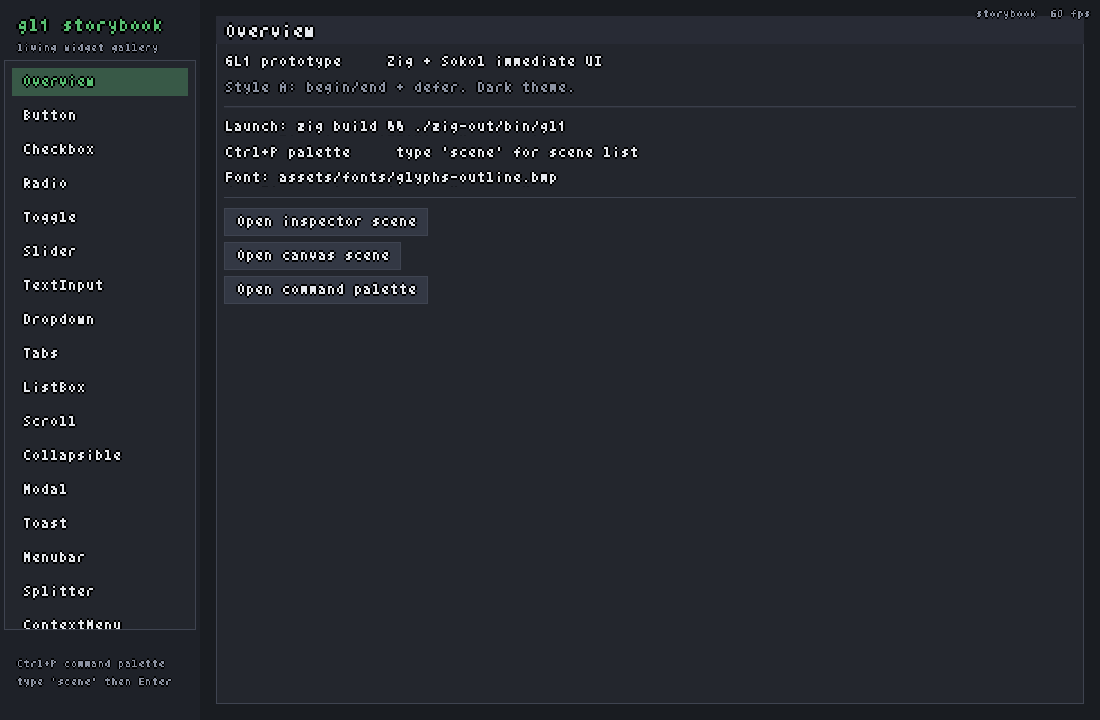
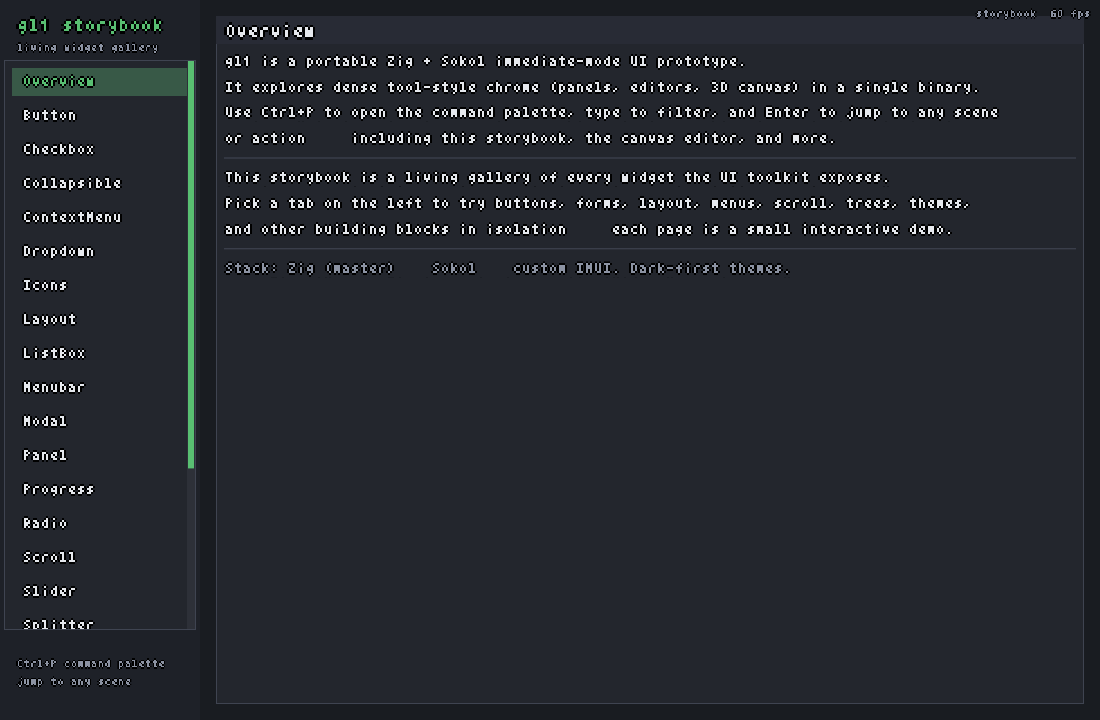
update readme

diff --git a/README.md b/README.md
@@ -1,55 +1,22 @@
 # gl1
 
-Portable **Zig + Sokol** graphics prototype with a custom **immediate-mode UI**
-(Style A: `begin` / `end` + `defer`). Built as a greenfield stack for tools,
-editors, and eventually TUI backends—without shipping Dear ImGui or Clay as the
-product UI.
-
-| | |
-|--|--|
-| Language | Zig **master** ([zvm](https://github.com/tristanisham/zvm)) |
-| Window / GPU | [sokol-zig](https://github.com/floooh/sokol-zig) (`sokol_app` + `sokol_gfx` + `sokol_gl`) |
-| UI | In-repo immediate mode (`src/ui/`) + `RenderCommand` list |
-| Font | Bitmap atlas (`assets/fonts/glyphs-outline.bmp`) |
-| Default scene | `storybook` |
-
-![gl1 storybook](docs/screenshots/storybook.png)
+Portable **Zig + Sokol** graphics prototype with a custom **immediate-mode UI**. Built as a greenfield stack for tools,
+editors, and eventually TUI backends—with little/no dependencies.
 
 ## Requirements
 
 - Zig **master** via [`zvm`](https://github.com/tristanisham/zvm)  
   (tested: `0.17.0-dev.1252+e4b325c19`)
+- [sokol-zig](https://github.com/floooh/sokol-zig) (`sokol_app` + `sokol_gfx` + `sokol_gl`) |
 - Linux with OpenGL + X11 (macOS / Windows via Sokol backends later)
+
+## Build & Run
 
 ```bash
 zvm use master
 zig build
-./zig-out/bin/gl1                    # default: storybook
-./zig-out/bin/gl1 --scene inspector
-./zig-out/bin/gl1 help
+./zig-out/bin/gl1 
 ```
-
-## Global hotkeys
-
-| Input | Action |
-|-------|--------|
-| **Ctrl+P** | Toggle command palette (filter with e.g. `scene`, arrows / Enter / click) |
-| **Esc** | Close palette/modal → clear text focus → quit app |
-| **Ctrl+C / X / V** | Copy / cut / paste in focused text fields |
-| **Ctrl+Z** / **Ctrl+Shift+Z** | Undo / redo in text fields |
-
-Scene switching is via the palette (type `scene`). Digits stay free for typing.
-
-### Command palette
-
-| Input | Action |
-|-------|--------|
-| **↑ / ↓** | Move selection (scroll keeps selection in view) |
-| **Mouse wheel** | Scroll list only (does not change selection) |
-| **Mouse move over row** | Select that row (only while the mouse is moving) |
-| **Enter** / click | Run command |
-| **Esc** | Close palette |
-
 ---
 
 ## Scenes overview
@@ -58,38 +25,21 @@ Favorite demos first:
 
 | Scene | CLI | Description |
 |-------|-----|-------------|
-| [`inspector`](#inspector) | `--scene inspector` | App chrome: menubar, split, tree, form, notes, console |
-| [`canvas`](#canvas) | `--scene canvas` | Blender-like 3D orbit viewport + entity cubes |
 | [`storybook`](#storybook) | `--scene storybook` | Living widget gallery (**default**) |
+| [`canvas`](#canvas) | `--scene canvas` | 3D orbit viewport + editor chrome (tree / inspector / console) |
+| [`panels`](#panels) | `--scene panels` | Desktop windows + dock (drag / resize / toggle) |
 | [`text`](#text) | `--scene text` | Bitmap font sample |
 | [`triangle`](#triangle) | `--scene triangle` | Hello triangle + mouse readout |
-| [`panels`](#panels) | `--scene panels` | Desktop windows + dock (drag / resize / toggle) |
 
 ---
 
 ## Scene gallery
 
-### inspector
-
-Composite “app shell”: menubar, left tree + filter, splitter, property form
-(Blender-style sliders), viewport preview, multi-line **Notes** textarea, console.
-
-![inspector](docs/screenshots/inspector.png)
-
-| Input | Action |
-|-------|--------|
-| Drag vertical splitter | Resize left/right panes |
-| Right-click entity list | Context menu |
-| Menubar items | File / edit actions, open palette |
-| **Notes** textarea | Full multi-line editor (see [Text editing](#text-editing-hotkeys)) |
-| Layer / HP sliders | Blender-style number sliders |
-
----
-
 ### canvas
 
 Mini Blender-like **3D** viewport: orbit camera, solid cubes as ECS-style
-entities, selection outlines, orientation compass, fly mode.
+entities, selection outlines, orientation compass, fly mode, plus floating
+**scene tree**, **inspector**, and **console** panels.
 
 ![canvas](docs/screenshots/canvas.png)
 
@@ -108,7 +58,8 @@ entities, selection outlines, orientation compass, fly mode.
 | **Ctrl+A** | Toggle select all / none |
 | **F** or **Numpad `.`** | Frame selection (center + zoom ~80%, 250 ms tween) |
 | **1** / **3** / **7** | Front / Right / Top view (numpad or top-row) |
-| Top-right RGB gizmo | World-axis orientation (always on) |
+| Top-right RGB gizmo | World-axis orientation (shifts left of expanded inspector) |
+| **Del** | Delete selection (when not typing in a field) |
 
 ---
 
@@ -188,56 +139,23 @@ Textarea: bottom-right **solid triangle** grip resizes the field (ghost preview 
 
 ---
 
-## Project layout
+## Global hotkeys
 
-```
-src/
-  main.zig              CLI entry
-  app.zig               sokol_app / gfx / gl shell
-  input.zig             normalized input + key repeat
-  anim.zig              Timer / Tween / Easing (Game9-inspired)
-  bmp.zig               BMP loader
-  font.zig              bitmap atlas font
-  draw.zig              RenderCommand list + sgl backend
-  ui/
-    ui.zig              immediate UI core + high-level widgets
-    theme.zig           dark theme tokens
-    text_edit.zig       shared text model (multi-caret, soft wrap, undo)
-    components/         modular widgets (slider, textArea, …)
-  scenes/
-    scenes.zig          runner + palette wiring
-    inspector.zig canvas.zig storybook.zig text.zig triangle.zig panels.zig
-assets/fonts/
-  glyphs-outline.bmp    bitmap font atlas (magenta = transparent)
-docs/screenshots/       committed scene screenshots (for this README)
-```
+| Input | Action |
+|-------|--------|
+| **Ctrl+P** | Toggle command palette (filter with e.g. `scene`, arrows / Enter / click) |
+| **Esc** | Close palette/modal → clear text focus → quit app |
+| **Ctrl+C / X / V** | Copy / cut / paste in focused text fields |
+| **Ctrl+Z** / **Ctrl+Shift+Z** | Undo / redo in text fields |
 
-## Design notes
+Scene switching is via the palette (type `scene`). Digits stay free for typing.
 
-- **UI:** immediate mode with stable IDs and previous-frame geometry for hits  
-- **Font:** fixed-cell bitmap atlas (`5×8` glyphs, `32×4` grid); pink/magenta chroma key → alpha  
-- **Layout:** simple vstack/hstack (flex-inspired; no external layout library)  
-- **Draw:** widgets emit a `RenderCommand` list; Sokol/GL backend executes it  
-- **Panels:** body always scissor-clipped; desktop scene adds drag/resize/dock  
-- **Scroll capture:** overlays (palette) own the wheel via `wheelY` / `eatScroll`  
-- **Anim:** `src/anim.zig` for camera framing tweens  
-- **Sokol:** official [`sokol-zig`](https://github.com/floooh/sokol-zig) package  
+### Command palette
 
-## Regenerating screenshots
-
-```bash
-zig build
-mkdir -p docs/screenshots
-for s in inspector canvas storybook text triangle panels; do
-  ./zig-out/bin/gl1 --scene "$s" &
-  pid=$!
-  sleep 1.5
-  scrot -u "docs/screenshots/${s}.png"
-  kill $pid
-  wait $pid 2>/dev/null
-done
-```
-
-## License
-
-MIT — see [LICENSE](./LICENSE).
+| Input | Action |
+|-------|--------|
+| **↑ / ↓** | Move selection (scroll keeps selection in view) |
+| **Mouse wheel** | Scroll list only (does not change selection) |
+| **Mouse move over row** | Select that row (only while the mouse is moving) |
+| **Enter** / click | Run command |
+| **Esc** | Close palette |